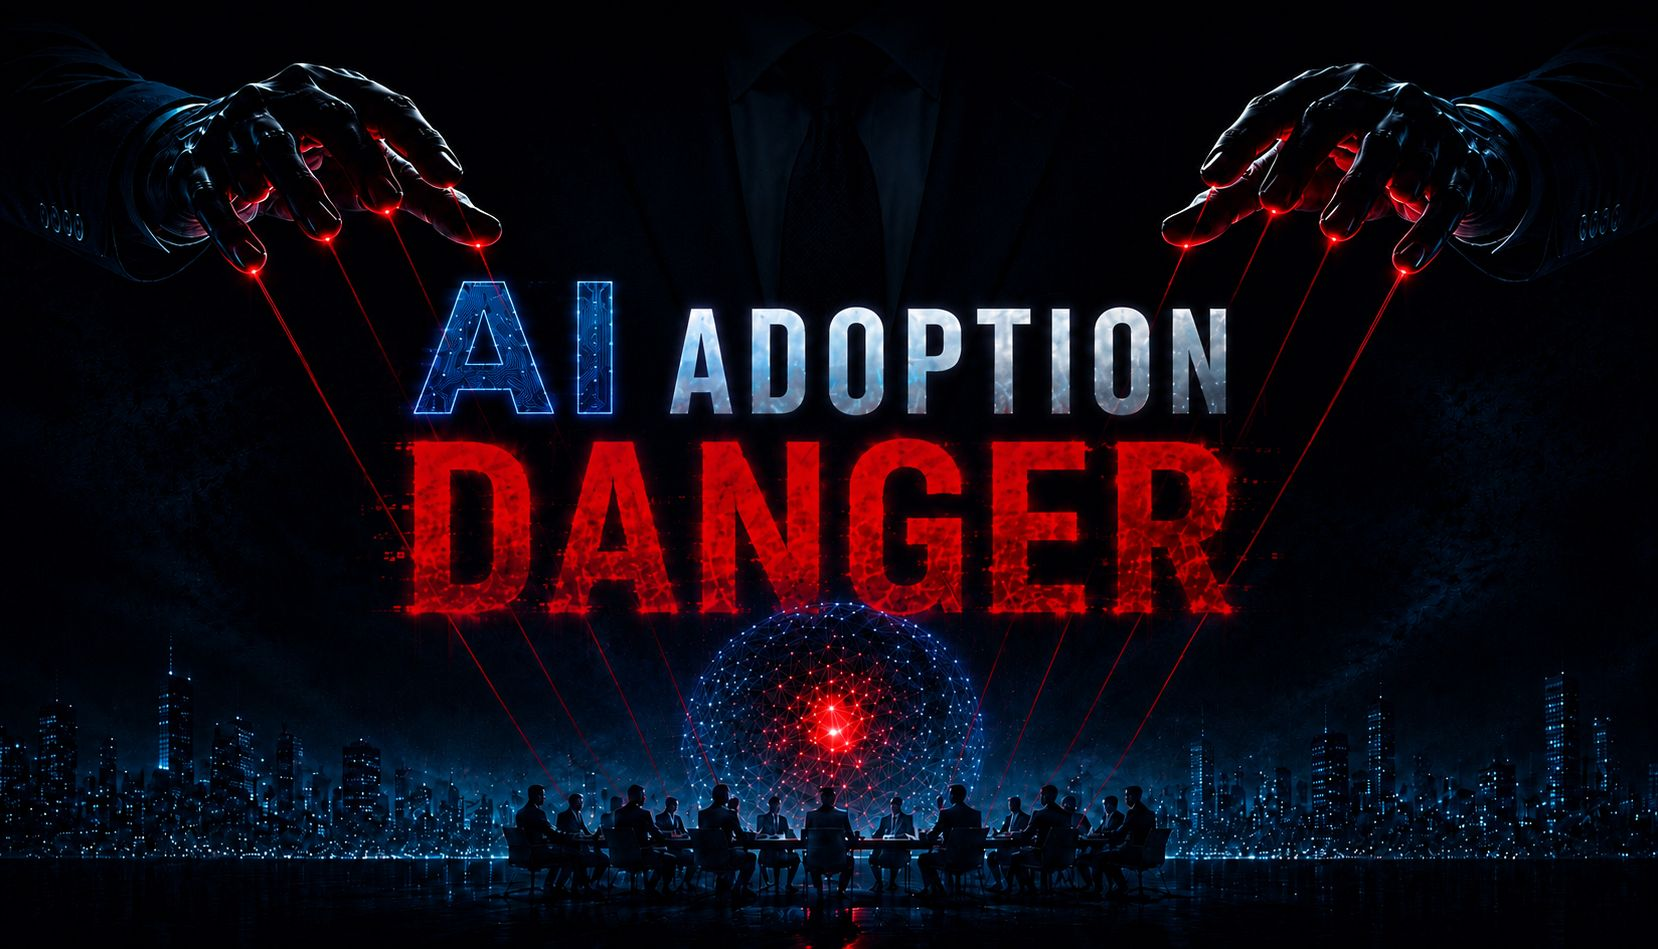
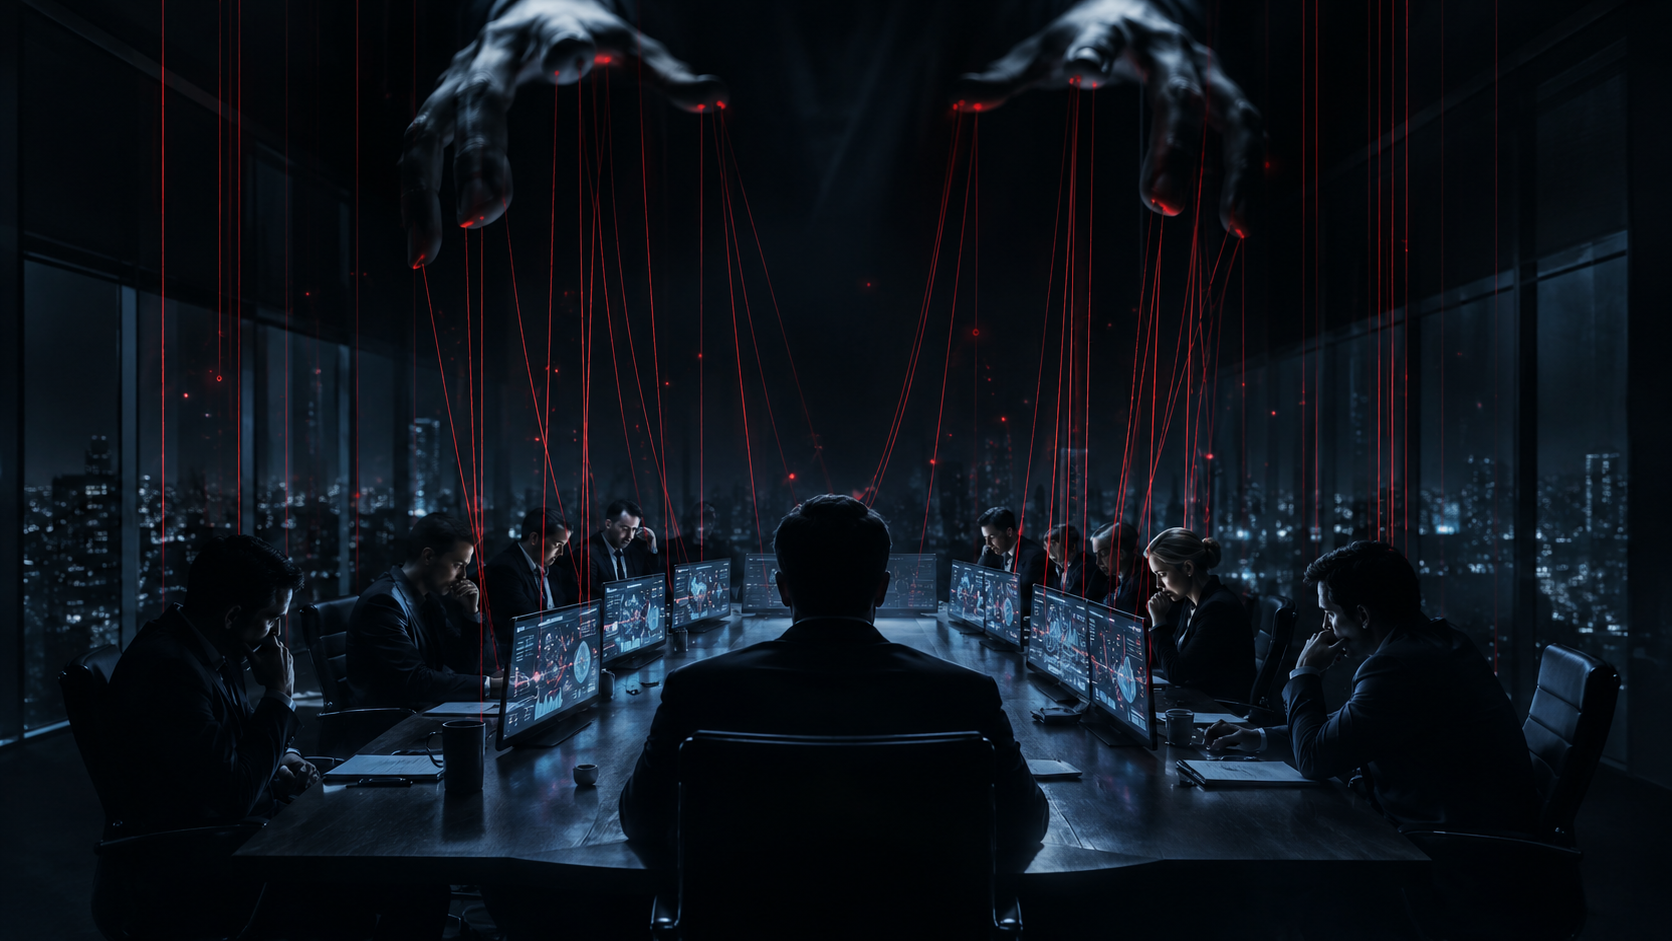
post: update bad management AI cover image

diff --git a/src/content/post/bad-management-amplified-by-ai.md b/src/content/post/bad-management-amplified-by-ai.md
@@ -7,7 +7,7 @@ tags:
   - management
 coverImage:
   src: ./bad-management-amplified-by-ai.png
-  alt: "Dark AI adoption danger illustration with managers pulling puppet strings over a city."
+  alt: "Shadowy boardroom with managers under red puppet strings, suggesting AI-amplified management control."
 ---
 
 There may be nothing more dangerous for a company in 2026 than adopting AI with a bunch of bad managers in charge.
